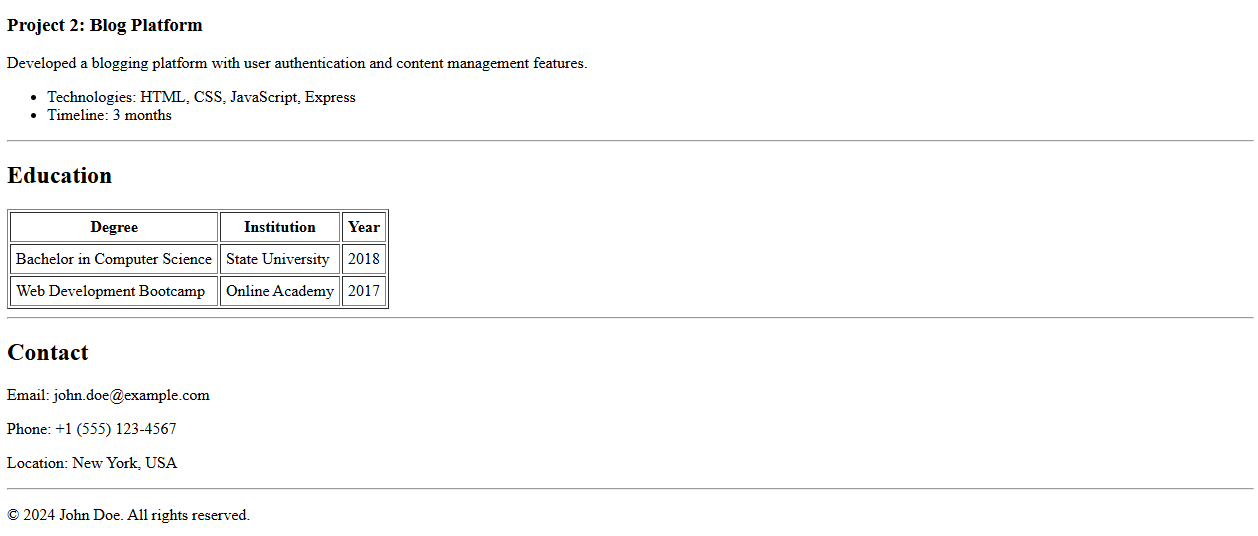
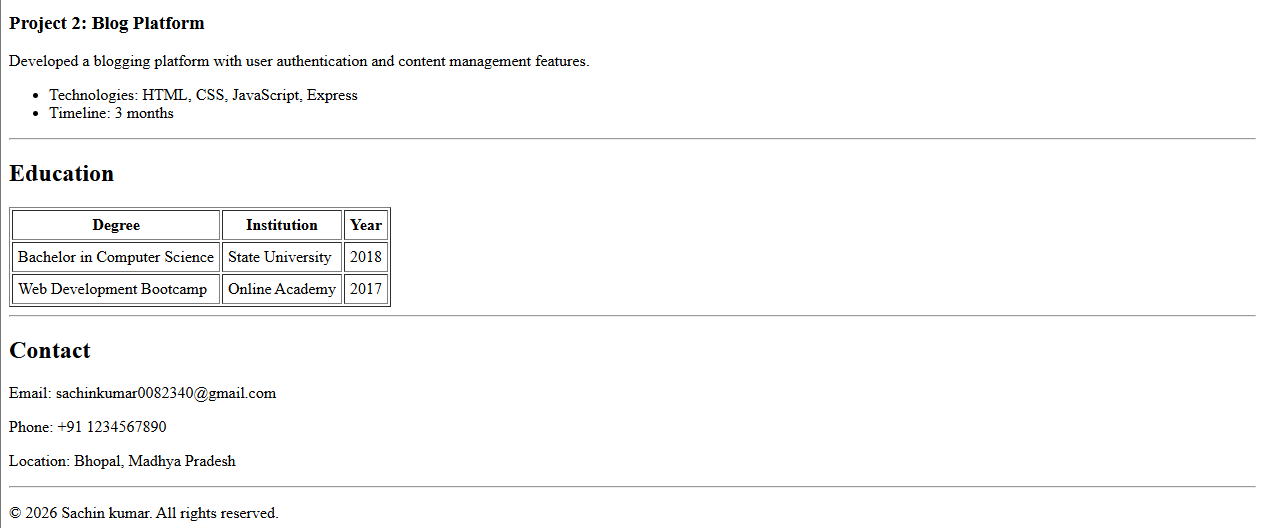
using the latest image

diff --git a/Resume_page_assignment.html b/Resume_page_assignment.html
@@ -109,7 +109,7 @@
 
     <hr>
 
-    <p>© 2024 John Doe. All rights reserved.</p>
+    <p>© 2026 Sachin kumar. All rights reserved.</p>
 
 </body>
 </html>
